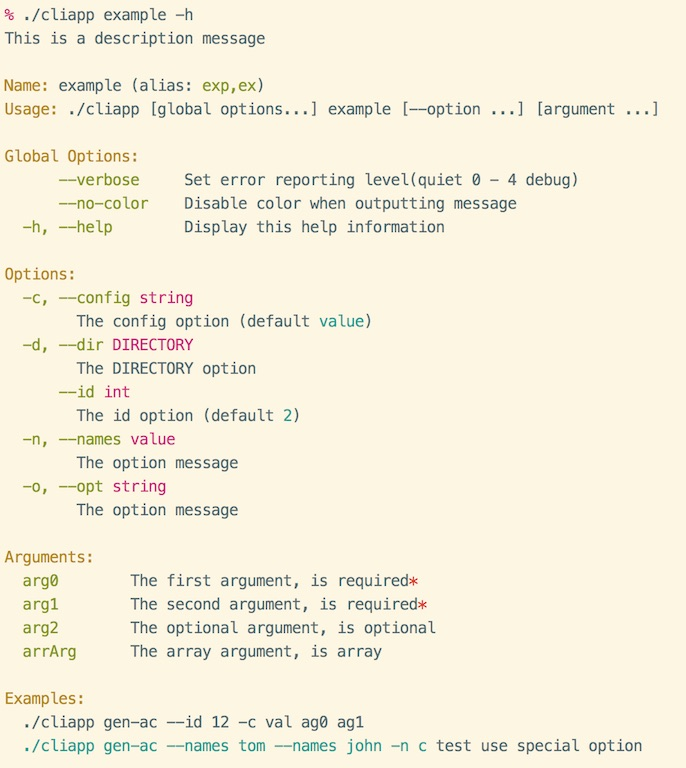
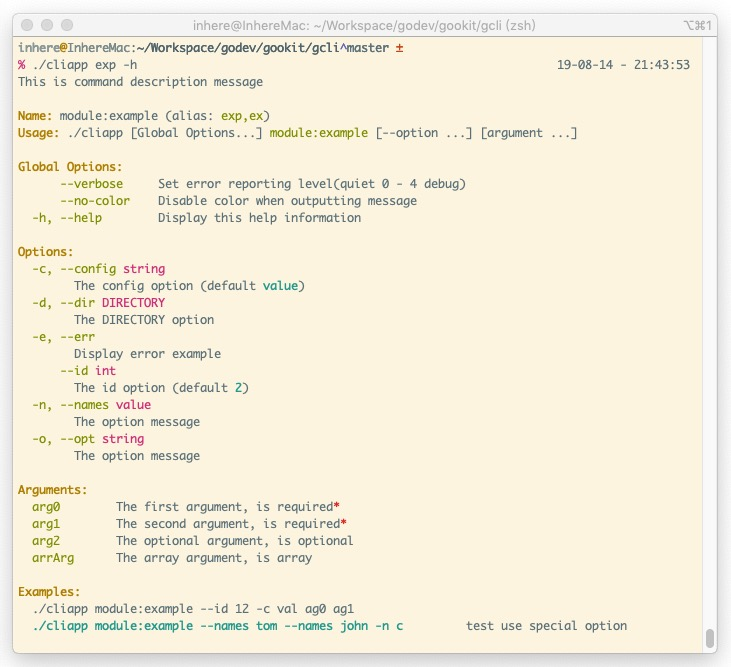
up: update some preview images. update readme

diff --git a/_examples/cmd/example.go b/_examples/cmd/example.go
@@ -35,10 +35,12 @@ func ExampleCommand() *gcli.Command {
 		Func:    exampleExecute,
 		Name:    "module:example",
 		Aliases: []string{"exp", "ex"},
-		UseFor:  "this is a description message",
+		UseFor:  "this is command description message",
 		// {$binName} {$cmd} is help vars. '{$cmd}' will replace to 'example'
-		Examples: `{$binName} {$cmd} --id 12 -c val ag0 ag1
-  <cyan>{$fullCmd} --names tom --names john -n c</> test use special option`,
+		Examples: `
+  {$binName} {$cmd} --id 12 -c val ag0 ag1
+  <cyan>{$fullCmd} --names tom --names john -n c</> 	test use special option
+`,
 	}
 
 	// bind options
@@ -65,7 +67,7 @@ func ExampleCommand() *gcli.Command {
 // example run:
 // 	go run ./_examples/cliapp.go ex -c some.txt -d ./dir --id 34 -n tom -n john val0 val1 val2 arrVal0 arrVal1 arrVal2
 func exampleExecute(c *gcli.Command, args []string) error {
-	fmt.Print("hello, in example command\n")
+	color.Cyan.Println("hello, in example command")
 
 	if exampleOpts.showErr {
 		return c.Errorf("OO, An error has occurred!!")
@@ -75,6 +77,7 @@ func exampleExecute(c *gcli.Command, args []string) error {
 
 	magentaln("All options:")
 	fmt.Printf("%+v\n", exampleOpts)
+// dump.V(exampleOpts)
 	magentaln("Remain args:")
 	fmt.Printf("%v\n", args)
 
@@ -84,7 +87,7 @@ func exampleExecute(c *gcli.Command, args []string) error {
 
 	magentaln("All named args:")
 	for _, arg := range c.Args() {
-		fmt.Printf("named arg '%s': %+v\n", arg.Name, *arg)
+		fmt.Printf("named arg '%s': %+v\n", arg.Name, arg.Value)
 	}
 
 	return nil

diff --git a/_examples/cmd/interact_demo.go b/_examples/cmd/interact_demo.go
@@ -19,12 +19,13 @@ func InteractDemoCommand() *gcli.Command {
 		Examples: `{$fullCmd} confirm
   {$fullCmd} select
 `,
-		Help: `Supported interactive methods:
-answerIsYes 	check user answer is Yes
-confirm 		confirm message
-select			select one from given options
-password		read user hidden input
-multiSelect		select multi from given options
+		Help: `
+Supported interactive methods:
+  answerIsYes    check user answer is Yes
+  confirm        confirm message
+  select         select one from given options
+  password       read user hidden input
+  multiSelect    select multi from given options
 `,
 	}
 
@@ -55,7 +56,8 @@ func interactDemo(c *gcli.Command, _ []string) error {
 }
 
 func demoSelect(_ *gcli.Command) {
-	color.Green.Println("run Select demo")
+	color.Green.Println("Run Select Demo")
+	fmt.Println("----------------------------------------------------------")
 
 	// s := interact.NewSelect("Your city", []string{"chengdu", "beijing", "shanghai"})
 	// s.DefOpt = "2"
@@ -68,6 +70,7 @@ func demoSelect(_ *gcli.Command) {
 		"",
 	)
 	color.Comment.Println("your select is: ", ans)
+	fmt.Println("----------------------------------------------------------")
 
 	ans1 := interact.Choice(
 		"Your age(use int array)?",
@@ -75,6 +78,8 @@ func demoSelect(_ *gcli.Command) {
 		"",
 	)
 	color.Comment.Println("your select is: ", ans1)
+
+	fmt.Println("----------------------------------------------------------")
 
 	ans2 := interact.SingleSelect(
 		"Your city name(use map)?",

diff --git a/cmd_run.go b/cmd_run.go
@@ -191,13 +191,23 @@ var commandHelp = `{{.UseFor}}
   <info>{{$a.Name | printf "%-12s"}}</>{{$a.Description | ucFirst}}{{if $a.Required}}<red>*</>{{end}}{{end}}
 {{end}} {{if .Cmd.Examples}}
 <comment>Examples:</>
-{{.Cmd.Examples}}{{end}}
-{{if .Cmd.Help}}<comment>Help:</>
+{{.Cmd.Examples}}{{end}}{{if .Cmd.Help}}
+<comment>Help:</>
 {{.Cmd.Help}}{{end}}`
 
 // ShowHelp show command help info
 func (c *Command) ShowHelp(quit ...bool) {
 	commandHelp = color.ReplaceTag(commandHelp)
+
+	// clear space and empty new line
+	if c.Examples != "" {
+		c.Examples = strings.Join([]string{"  ", strings.TrimSpace(c.Examples), "\n"}, "")
+	}
+
+	// clear space and empty new line
+	if c.Help != "" {
+		c.Help = strings.Join([]string{strings.TrimSpace(c.Help), "\n"}, "")
+	}
 
 	// render and output help info
 	// RenderTplStr(os.Stdout, commandHelp, map[string]interface{}{

diff --git a/helper/utils.go b/helper/utils.go
@@ -2,39 +2,11 @@ package helper
 
 import (
 	"bytes"
-	"os/exec"
 	"strings"
 	"text/template"
 
 	"github.com/gookit/goutil/strutil"
 )
-
-// ShellExec exec a CLI command by shell and return output.
-// Usage:
-// 	ShellExec("ls -al")
-// 	ShellExec("ls -al", "/usr/lib")
-// 	ShellExec("ls -al", "/usr/lib", "/bin/zsh")
-func ShellExec(cmdStr string, dirAndShell ...string) (string, error) {
-	var workDir string
-	shell := "/bin/sh"
-
-	// if has more args
-	if ln := len(dirAndShell); ln > 0 {
-		workDir = dirAndShell[0]
-		if ln > 1 {
-			shell = dirAndShell[1]
-		}
-	}
-
-	// create a new Cmd instance
-	cmd := exec.Command(shell, "-c", cmdStr)
-	if workDir != "" {
-		cmd.Dir = workDir
-	}
-
-	bs, err := cmd.Output()
-	return string(bs), err
-}
 
 // GetScreenSize for current console terminal. TODO ...
 func GetScreenSize() (w int, h int) {

diff --git a/README.zh-CN.md b/README.zh-CN.md
@@ -12,11 +12,11 @@
 
 ## 截图展示
 
-![app-help](_examples/images/app-help.jpg)
+![app-cmd-list](_examples/images/cmd-list.png)
 
 ## 功能特色
 
-- 使用简单方便，轻量级，无额外依赖
+- 使用简单方便，轻量级，功能丰富
 - 支持添加多个命令，并且支持给命令添加别名
 - 输入的命令错误时，将会提示相似命令（包含别名提示）
 - 快速方便的添加选项绑定 `--long`，支持添加短选项 `-s`
@@ -94,14 +94,15 @@ func main() {
 
 ### 打印版本信息
 
-打印我们在创建cli应用时设置的版本信息
+打印我们在创建cli应用时设置的版本信息。如果你还设置了字符LOGO，也会显示出来。
 
 ```bash
-% ./cliapp --version
-This is my cli application
-
-Version: 1.0.3                                                           
+% ./cliapp --version      
+# or use -V                                                 
+% ./cliapp -V                                                     
 ```
+
+![app-version](_examples/images/app-version.jpg)
 
 ### 应用帮助信息
 
@@ -115,21 +116,29 @@ Version: 1.0.3
 ./cliapp --help # can also
 ```
 
+![cmd-list](_examples/images/cmd-list.png)
+
 ### 运行一个命令
 
 ```bash
 % ./cliapp example -c some.txt -d ./dir --id 34 -n tom -n john val0 val1 val2 arrVal0 arrVal1 arrVal2
 ```
 
-you can see:
+可以观察到选项和参数的搜集结果:
 
-![run_example_cmd](_examples/images/run_example_cmd.jpg)
+![run-example](_examples/images/run-example.jpg)
 
 ### 显示一个命令的帮助
 
 > by `./cliapp {command} -h` or `./cliapp {command} --help` or `./cliapp help {command}`
 
 ![cmd-help](_examples/images/cmd-help.jpg)
+
+### 相似命令提示
+
+输入了错误的命令，但是有名称相似的会提示出来。
+
+![cmd-tips](_examples/images/err-cmd-tips.jpg)
 
 ### 生成命令补全脚本
 
@@ -384,7 +393,7 @@ func main() {
 
 ### 颜色输出展示
 
-![colored-demo](_examples/images/color-demo.jpg)
+![colored-demo](_examples/images/color/color-demo.jpg)
 
 ### 如何使用
 

diff --git a/README.md b/README.md
@@ -12,7 +12,7 @@ A simple to use command line application, written using golang.
 
 ## Screenshots
 
-![app-help](_examples/images/app-help.jpg)
+![app-cmd-list](_examples/images/cmd-list.png)
 
 ## Features
 
@@ -94,11 +94,12 @@ func main() {
 ### Display version
 
 ```bash
-% ./cliapp --version
-this is my cli application
-
-Version: 1.0.3                                                           
+% ./cliapp --version      
+# or use -V                                                 
+% ./cliapp -V                                                     
 ```
+
+![app-version](_examples/images/app-version.jpg)
 
 ### Display app help
 
@@ -112,7 +113,9 @@ Examples:
 ./cliapp --help # can also
 ```
 
-### Run a command
+![cmd-list](_examples/images/cmd-list.png)
+
+### Run A Command
 
 ```bash
 % ./cliapp example -c some.txt -d ./dir --id 34 -n tom -n john val0 val1 val2 arrVal0 arrVal1 arrVal2
@@ -120,19 +123,19 @@ Examples:
 
 you can see:
 
-![run_example_cmd](_examples/images/run_example_cmd.jpg)
+![run-example](_examples/images/run-example.jpg)
 
-### Display command help
+### Display Command Help
 
 > by `./cliapp example -h` or `./cliapp example --help`
 
 ![cmd-help](_examples/images/cmd-help.jpg)
 
-### Display command tips
+### Error Command Tips
 
 ![command tips](_examples/images/err-cmd-tips.jpg)
 
-### Generate auto completion scripts
+### Generate Auto Completion Scripts
 
 ```go
 import  "github.com/gookit/gcli/v2/builtin"
@@ -385,7 +388,7 @@ func main() {
 
 ### Color output display
 
-![colored-demo](_examples/images/color-demo.jpg)
+![colored-demo](_examples/images/color/color-demo.jpg)
 
 ### Usage
 
